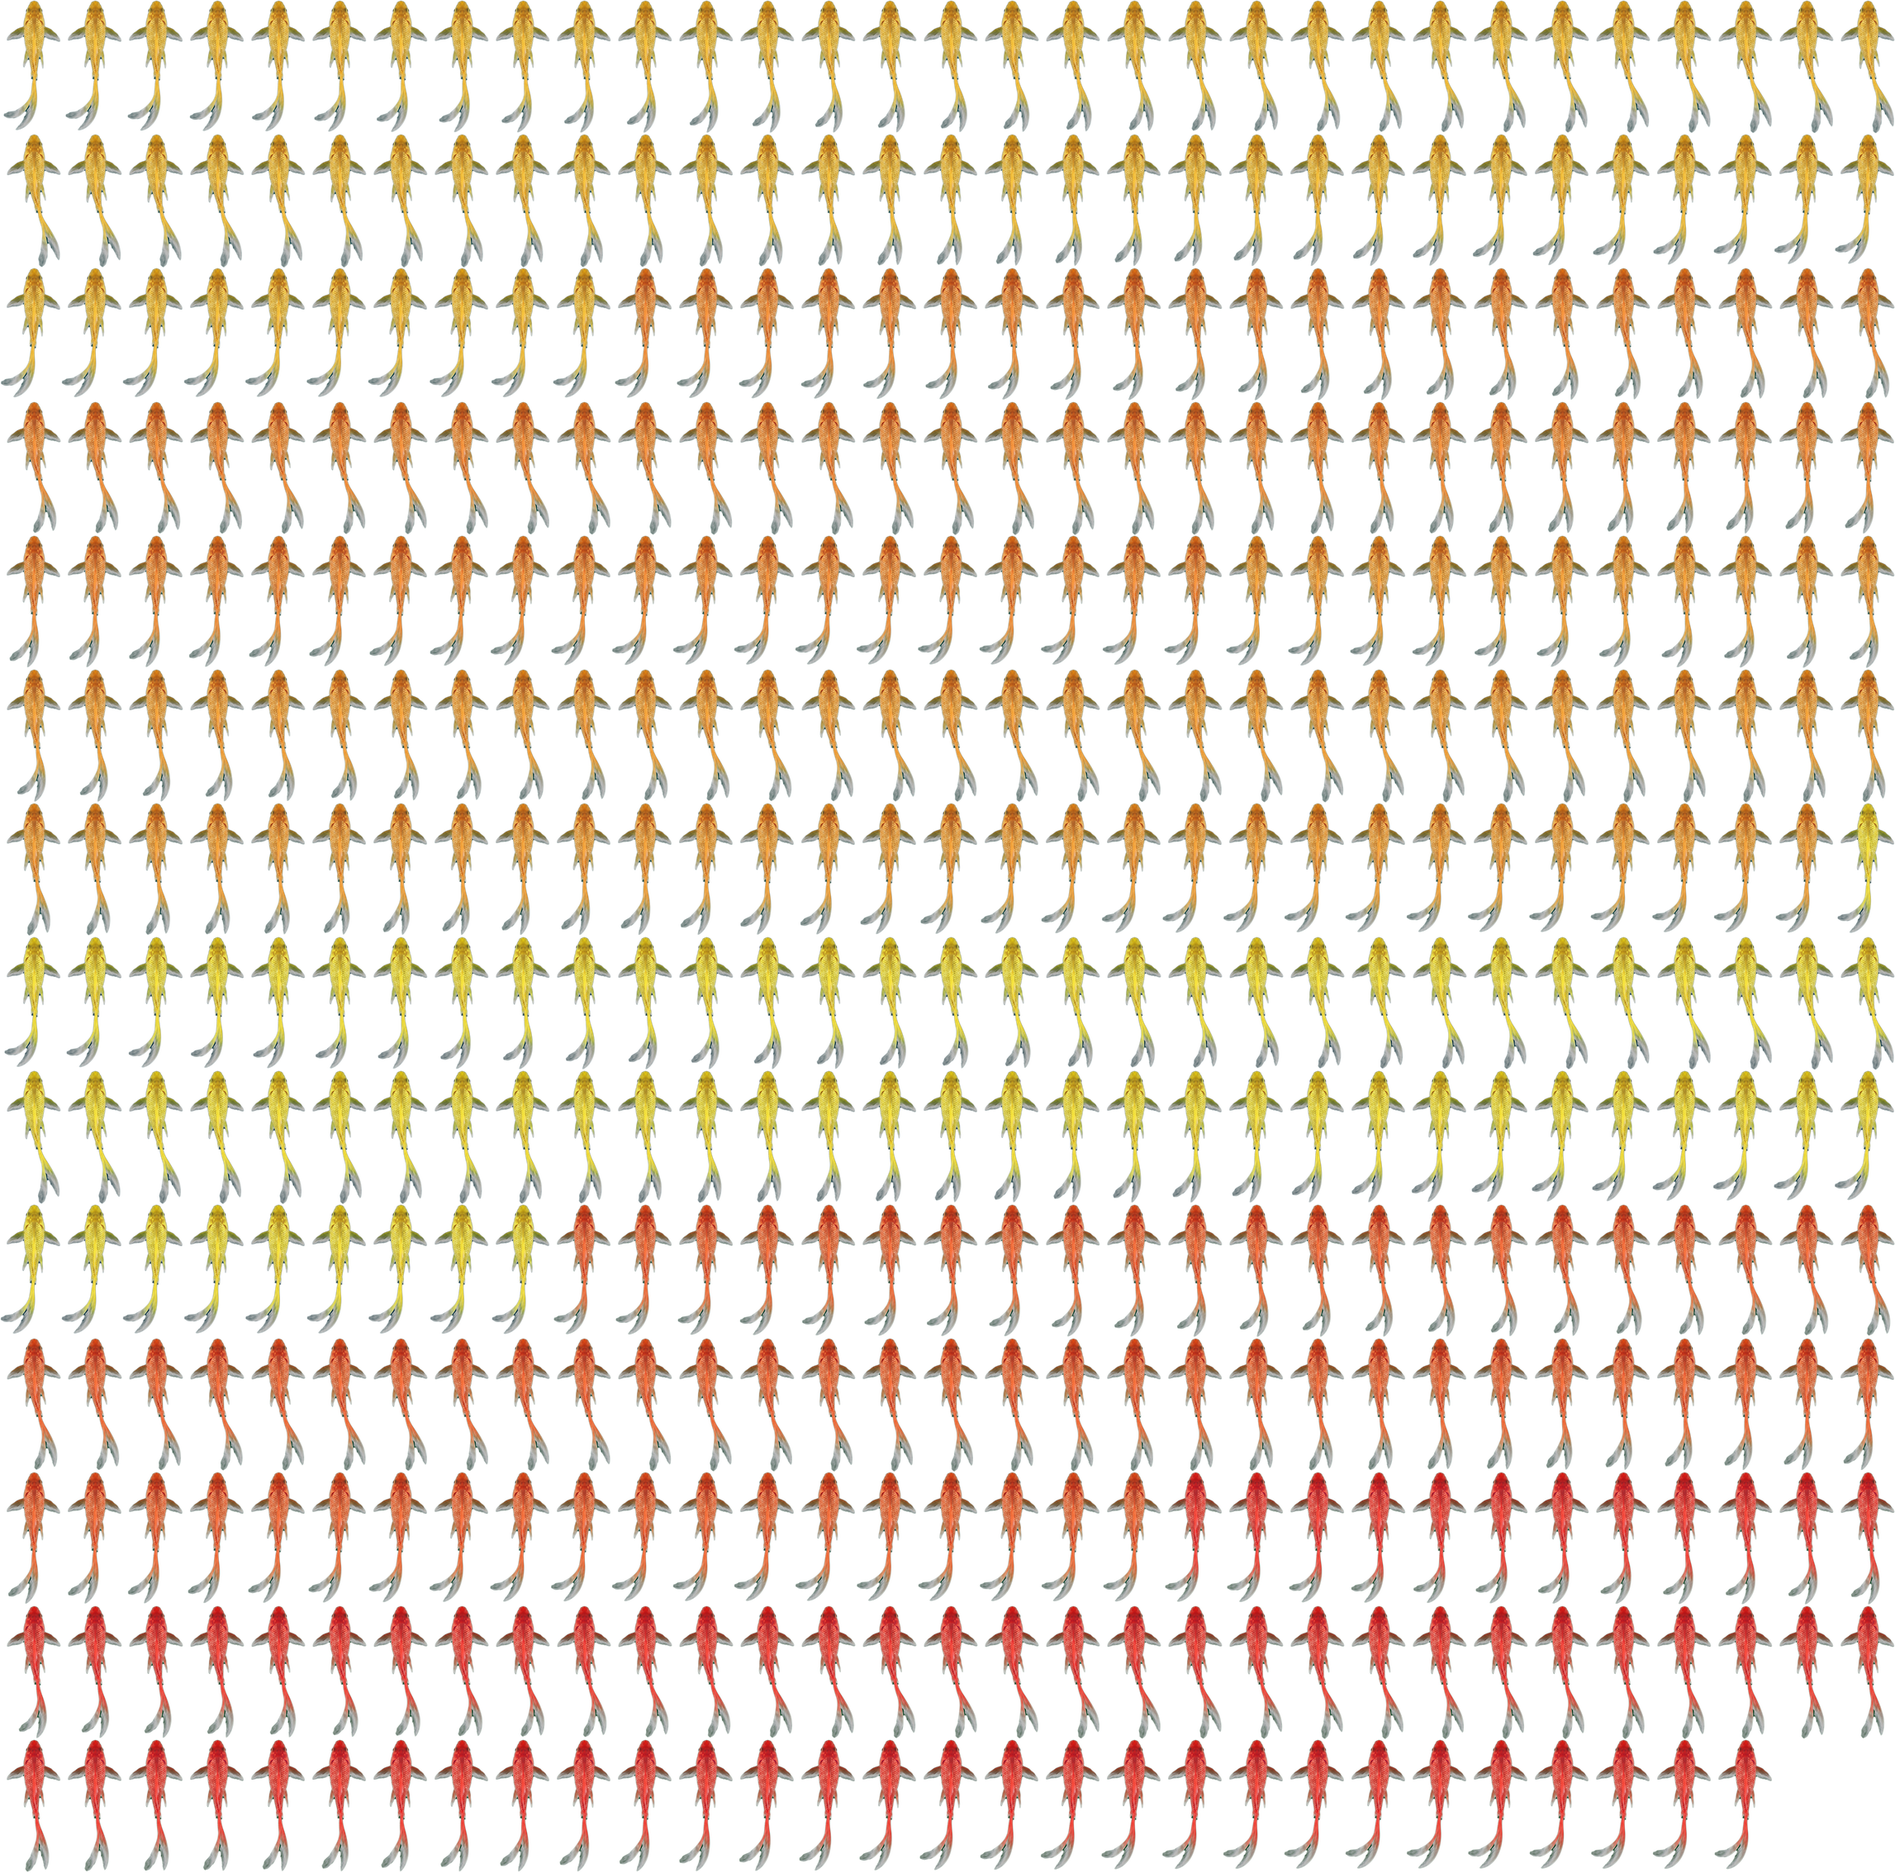
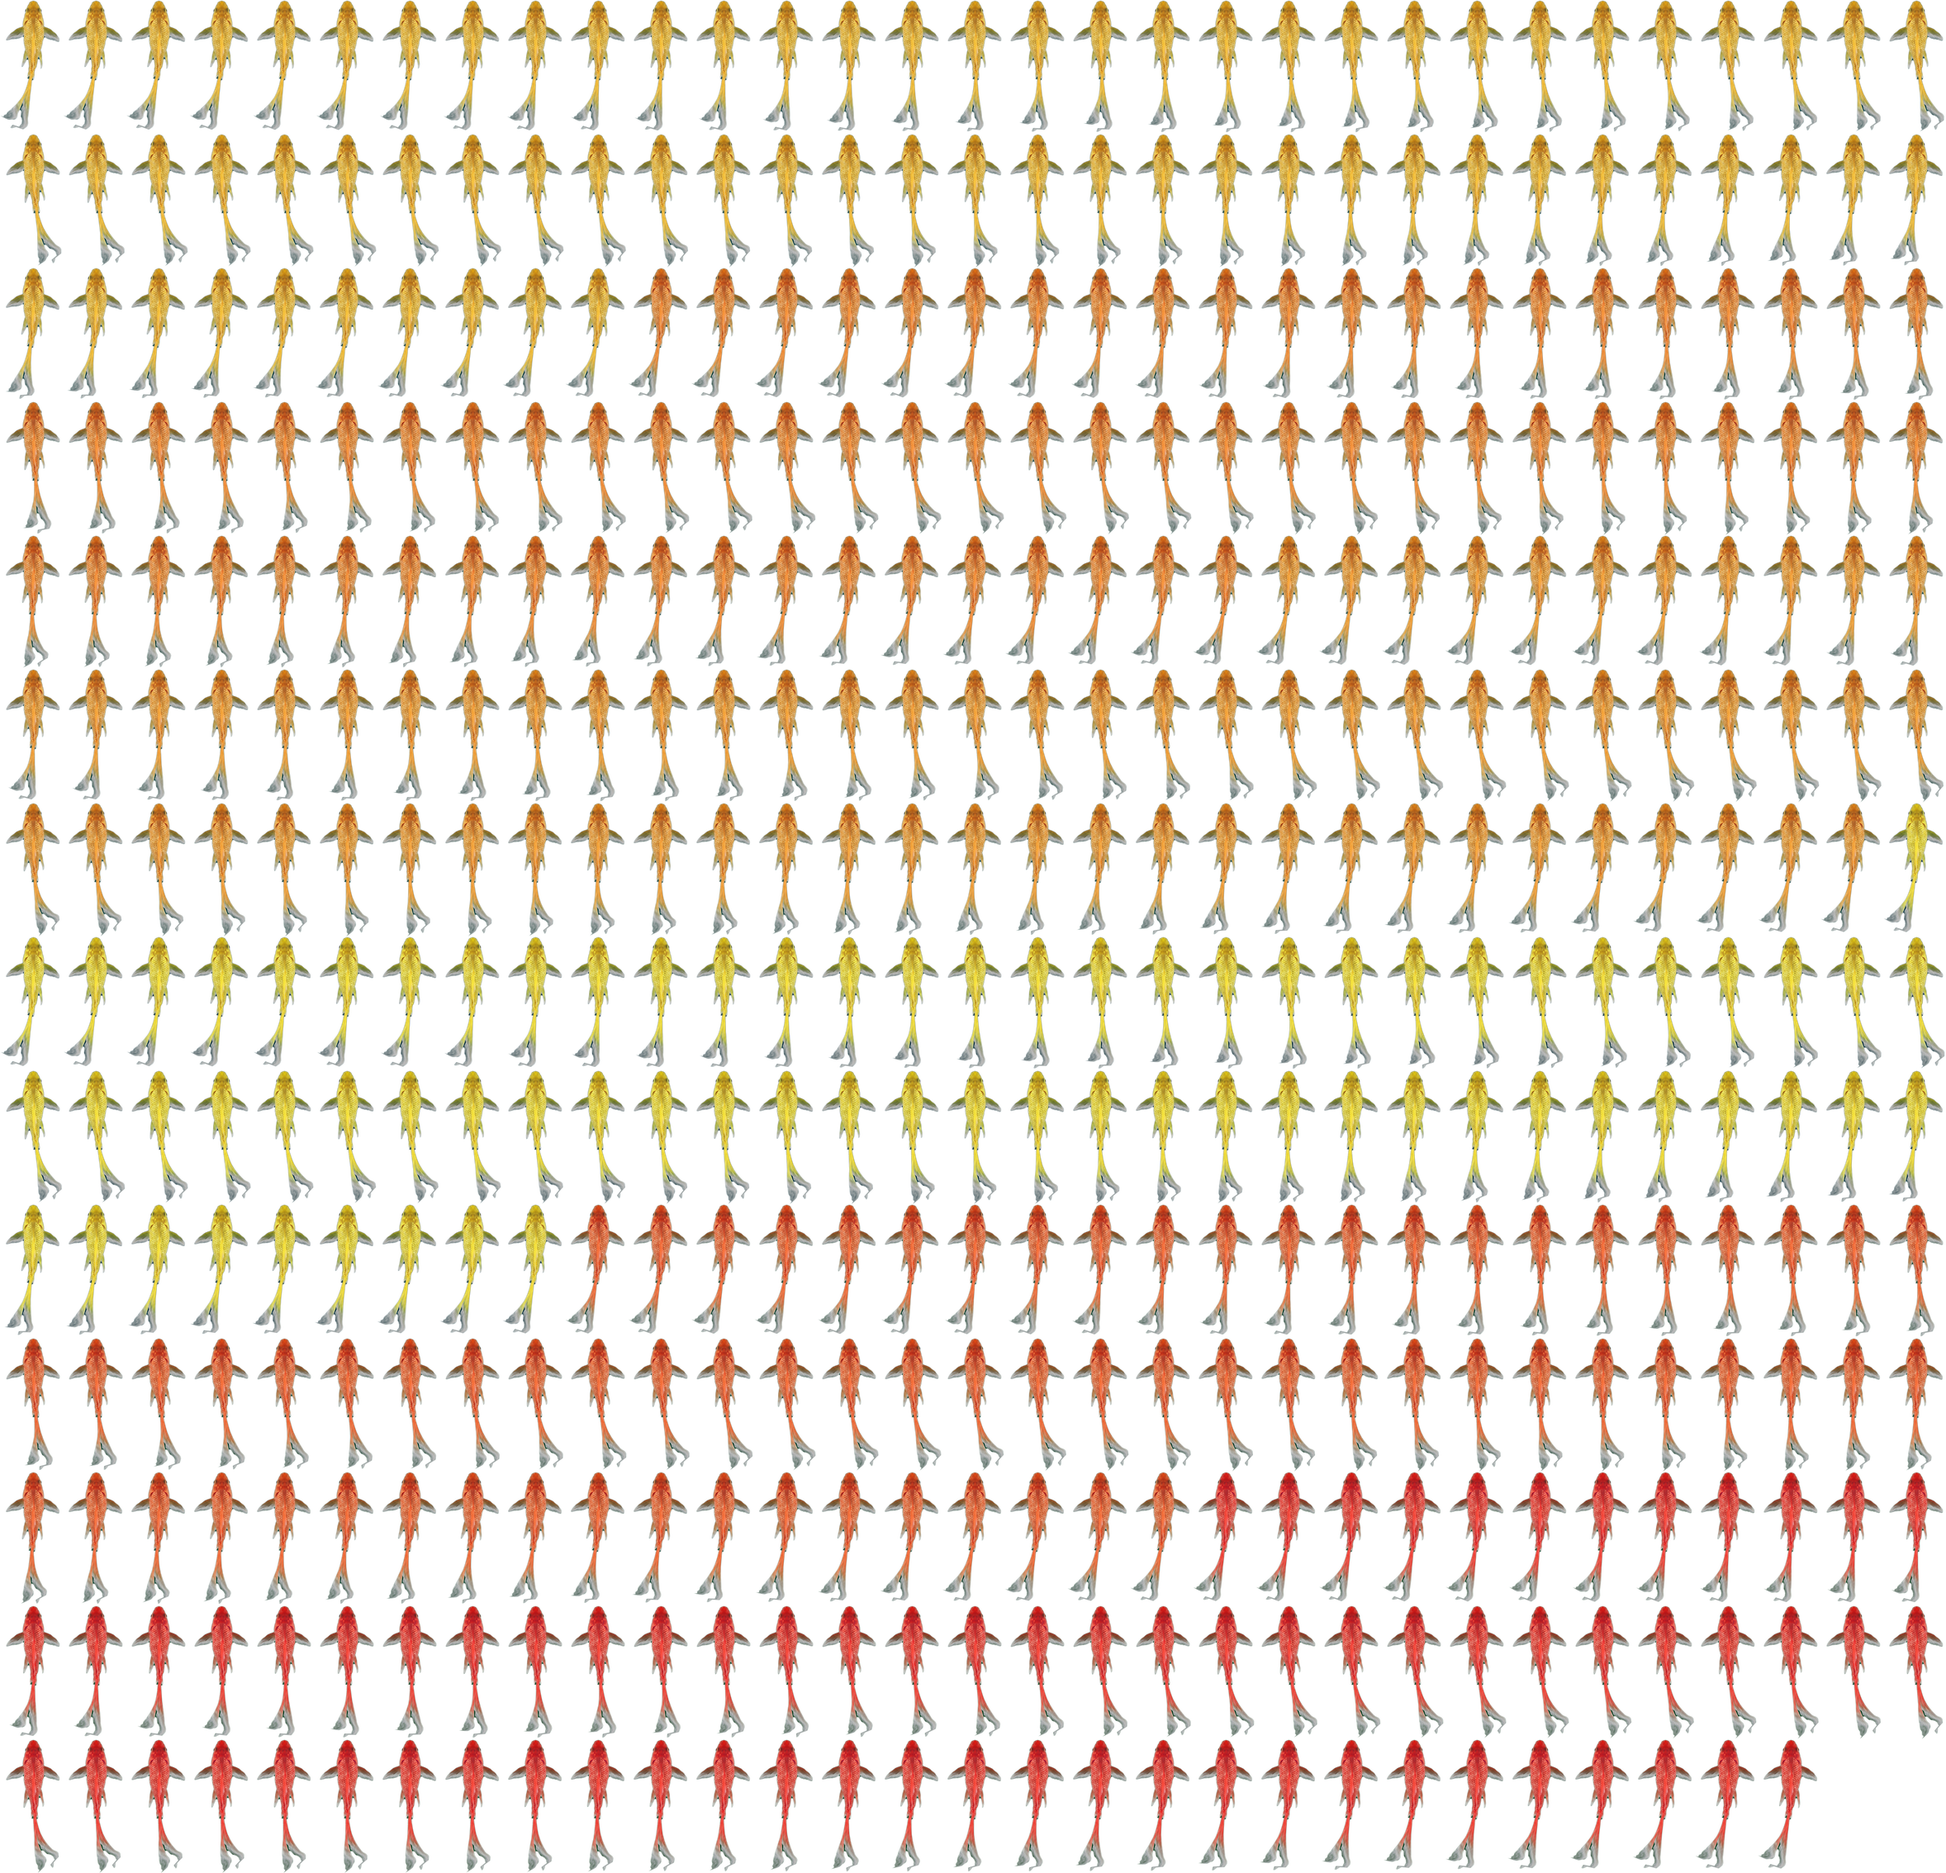
07 금색 코이 직선화 재생성(STR_K=1.0, TRAVEL 0.32) ASSET_VER=56/v=115

Changed region(s): [[0.0, 0.0, 1.0, 1.0]]

diff --git a/07_water_trace_goldfish/app.js b/07_water_trace_goldfish/app.js
@@ -27,7 +27,7 @@
   // 배경 데이터 절대 경로 = fractal_capture 폴더 (bg_build.py 가 assets/bg/ 로 최적화 복사 +
   //   assets/bg-manifest.json 생성). 앱은 매니페스트의 모든 이미지를 이름순 크로스페이드 재생.
   //   동영상(manifest.videos)은 V 키로 영상 배경 토글.  bg 갱신 시 BG_VER 올려 캐시 무효화.
-  const ASSET_VER = "55";   // 그룹5 추가(4-.png 금색 코이 색변주 6종)
+  const ASSET_VER = "56";   // 금색 코이 직선화 재생성(STR_K=1.0, 굽은 꼬리 고정 제거)
   const BG_VER = "4";
   let SLIDE_HOLD_MS = 0;               // 각 장면 추가 표시 시간(▲/▼ 방향키 ±1초, 기본 0초)
   const SLIDE_FADE_MS = 1600;          // 크로스페이드 시간

diff --git a/07_water_trace_goldfish/index.html b/07_water_trace_goldfish/index.html
@@ -107,6 +107,6 @@
   })();
   </script>
 
-  <script src="app.js?v=114"></script>
+  <script src="app.js?v=115"></script>
 </body>
 </html>
